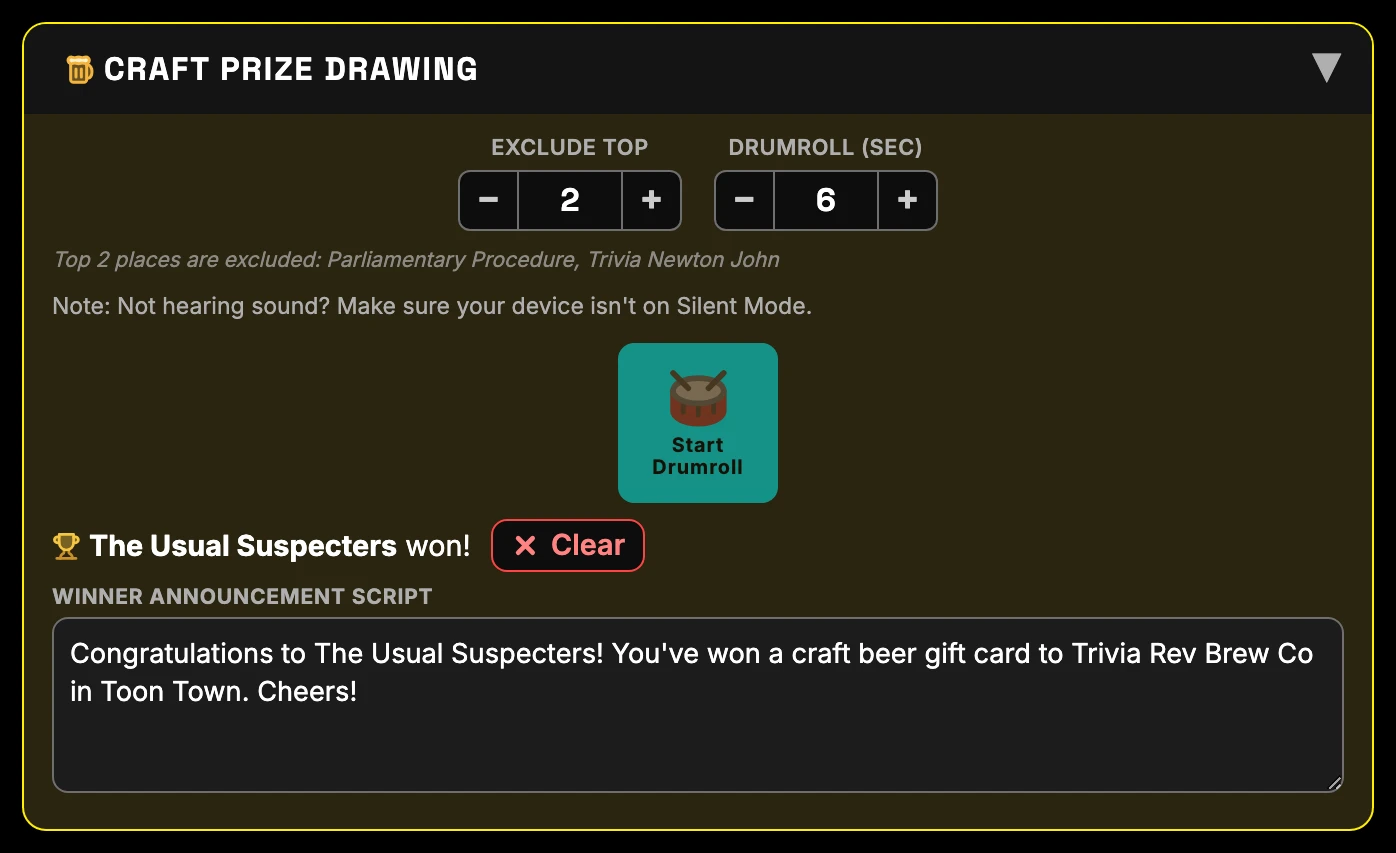
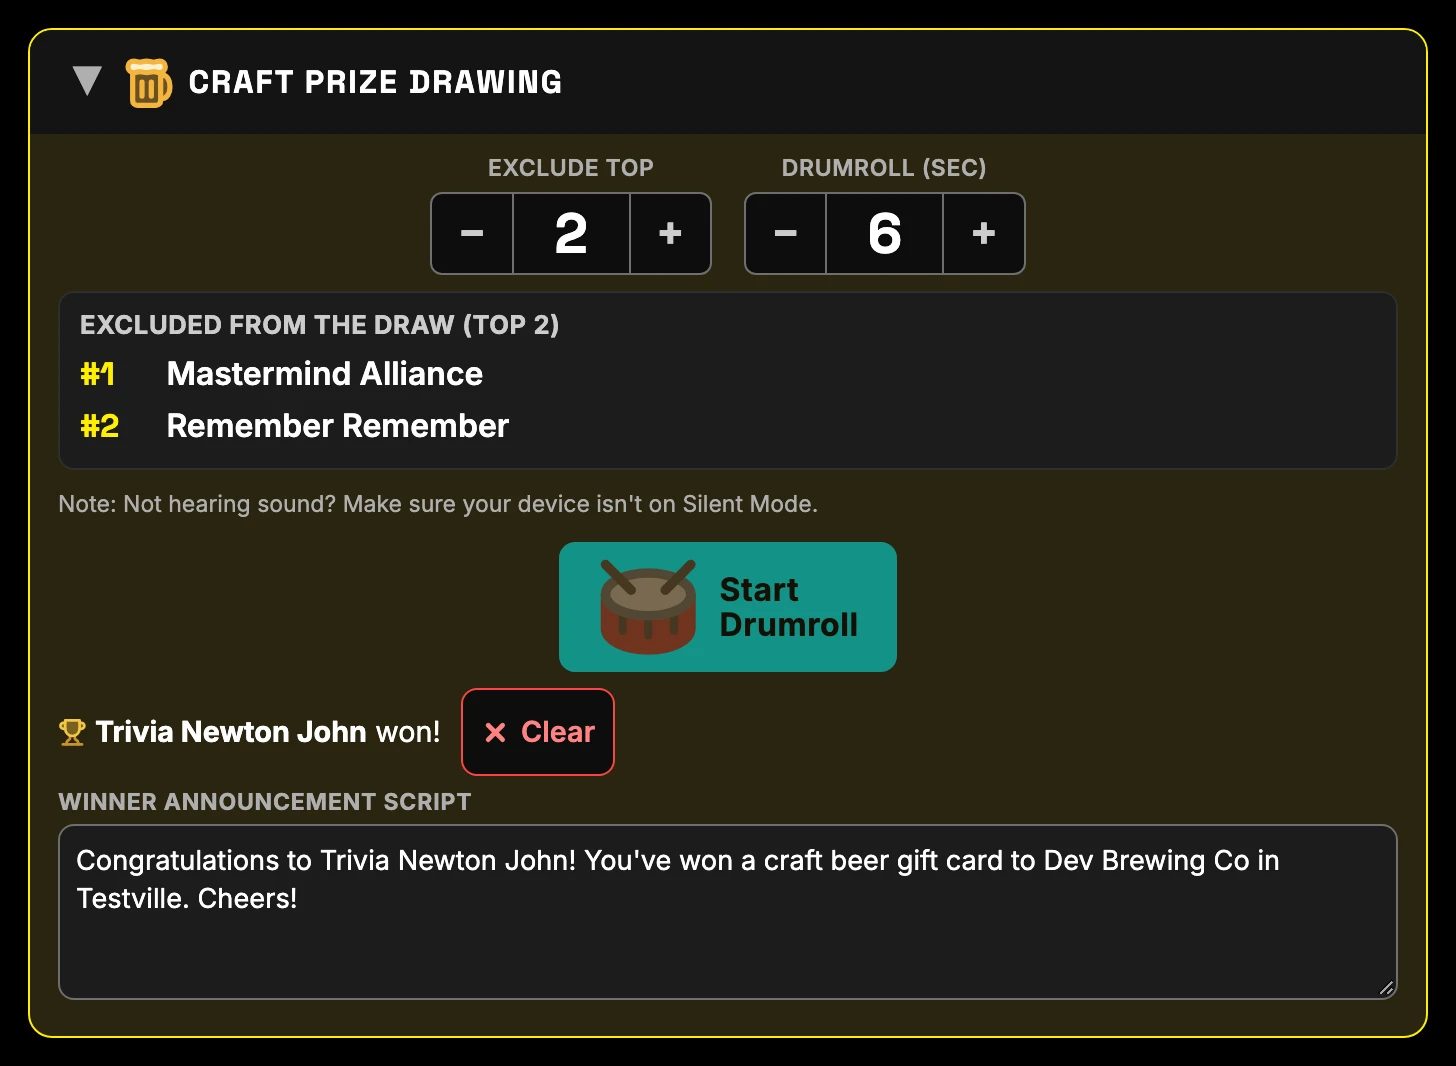
v22.77 Copy chip holds both labels in one spot so long team names stop wrapping on tap, FAQ v1.76 craft prize screenshots

Changed region(s): [[0.0, 0.0305, 0.9857, 0.9754]]

diff --git a/js/craft-prize.js b/js/craft-prize.js
@@ -563,7 +563,7 @@ function winnerCopyButtonsHtml() {
   if (!gameState.teams.length) return "";
   const nm = (ti) => esc(gameState.teams[ti].name || "Team " + (ti + 1));
   const btn = (ti, label) =>
-    `<button class="btn wc-btn" onclick="copyTeamName(this,${ti})" title="Copy team name" aria-label="Copy ${label}: ${nm(ti)}"><span class="wc-label${label[0] === "#" ? " wc-num" : ""}">${label.replace(" ", "<br>")}</span><span class="wc-name">${nm(ti)}</span><span class="wc-copy">Copy</span></button>`;
+    `<button class="btn wc-btn" onclick="copyTeamName(this,${ti})" title="Copy team name" aria-label="Copy ${label}: ${nm(ti)}"><span class="wc-label${label[0] === "#" ? " wc-num" : ""}">${label.replace(" ", "<br>")}</span><span class="wc-name">${nm(ti)}</span><span class="wc-copy"><span class="wc-copy-idle">Copy</span><span class="wc-copy-done" aria-hidden="true">${ICON_DONE} Copied</span></span></button>`;
   const rows = ranked()
     .slice(0, gameState.meta.excludeTopN || 2)
     .map((r, i) => btn(r.index, "#" + (i + 1)));
@@ -571,22 +571,15 @@ function winnerCopyButtonsHtml() {
   if (w && gameState.teams[w.ti]) rows.push(btn(w.ti, "Craft Prize"));
   return `<div class="winner-copy">${rows.join("")}</div>`;
 }
-// Copy confirmation for the winner buttons: only the small "Copy" chip changes, in place. The
-// chip's width is pinned so the longer "Copied" can't reflow the team name beside it, and the
-// button's badge/name never swap, fade or move — nothing to flicker.
+// Copy confirmation for the winner buttons: only the small Copy chip changes, in place. Both
+// labels ("Copy" and "✓ Copied") are always in the chip, stacked in one grid cell, so the chip is
+// permanently as wide as the wider one and toggling a class can't reflow the team name beside it.
+// No text swap, no fade, no measured widths — nothing to flicker or wrap.
 function flashChip(chip) {
   clearTimeout(+chip.dataset.flashTimer || 0);
-  if (chip.dataset.flashRestore == null) {
-    chip.dataset.flashRestore = chip.innerHTML;
-    chip.style.minWidth = chip.offsetWidth + "px";
-  }
-  chip.innerHTML = ICON_DONE + " Copied";
   chip.classList.add("wc-copied");
   chip.dataset.flashTimer = setTimeout(() => {
-    chip.innerHTML = chip.dataset.flashRestore;
     chip.classList.remove("wc-copied");
-    chip.style.minWidth = "";
-    delete chip.dataset.flashRestore;
     delete chip.dataset.flashTimer;
   }, 1500);
 }

diff --git a/index.html b/index.html
@@ -109,7 +109,7 @@
     </div>
     </div>
     <div class="settings-panel-foot">
-    <div class="settings-meta"><span class="settings-version" id="versionLabel"></span><details class="settings-about"><summary>What's new</summary><div class="about-ver"><b>v22.76</b><ul><li>Craft Prize: the #1/#2/#3 numbers in the Excluded list are easier to read in light mode.</li></ul></div><div class="about-ver"><b>v22.75</b><ul><li>Game Confirmation: tapping Copy on a winner button now only turns its Copy chip green, with no flashing or shifting.</li></ul></div><div class="about-ver"><b>v22.74</b><ul><li>Game Confirmation: step 1 is now "Save a Scoresheet backup (Optional)" with a "Save backup" button.</li></ul></div></details><span class="settings-disclaimer"><svg class="icon-ui" viewBox="0 0 24 24" aria-hidden="true" focusable="false"><path d="m21.73 18-8-14a2 2 0 0 0-3.48 0l-8 14A2 2 0 0 0 4 21h16a2 2 0 0 0 1.73-3"/><path d="M12 9v4"/><path d="M12 17h.01"/></svg> Built with Anthropic's Claude AI — double-check scores &amp; banter yourself.</span></div>
+    <div class="settings-meta"><span class="settings-version" id="versionLabel"></span><details class="settings-about"><summary>What's new</summary><div class="about-ver"><b>v22.77</b><ul><li>Game Confirmation: tapping Copy on a winner button no longer pushes long team names onto a second line.</li></ul></div><div class="about-ver"><b>v22.76</b><ul><li>Craft Prize: the #1/#2/#3 numbers in the Excluded list are easier to read in light mode.</li></ul></div><div class="about-ver"><b>v22.75</b><ul><li>Game Confirmation: tapping Copy on a winner button now only turns its Copy chip green, with no flashing or shifting.</li></ul></div></details><span class="settings-disclaimer"><svg class="icon-ui" viewBox="0 0 24 24" aria-hidden="true" focusable="false"><path d="m21.73 18-8-14a2 2 0 0 0-3.48 0l-8 14A2 2 0 0 0 4 21h16a2 2 0 0 0 1.73-3"/><path d="M12 9v4"/><path d="M12 17h.01"/></svg> Built with Anthropic's Claude AI — double-check scores &amp; banter yourself.</span></div>
     </div>
   </div>
 </div>

diff --git a/css/styles.css b/css/styles.css
@@ -2290,7 +2290,10 @@ input.at-limit,textarea.at-limit{border-color:var(--accent-orange);box-shadow:0 
 .wc-label{font-family:var(--font-display);font-weight:800;font-size:.75rem;text-transform:uppercase;letter-spacing:.3px;color:var(--accent-gold);min-width:4.6rem}
 .wc-name{flex:1;font-weight:600;word-break:break-word}
 .wc-copy{flex:none;font-weight:700;font-size:.8rem;text-transform:uppercase;letter-spacing:.3px;padding:2px 10px;border:1px solid var(--border);border-radius:var(--radius)}
-.wc-copy{text-align:center;white-space:nowrap}
+.wc-copy{display:inline-grid;text-align:center;white-space:nowrap}
+.wc-copy>span{grid-area:1/1}
+.wc-copy-done,.wc-copied .wc-copy-idle{visibility:hidden}
+.wc-copied .wc-copy-done{visibility:visible}
 .wc-copy.wc-copied{background:var(--correct-badge-bg);color:var(--correct-badge-fg);border-color:var(--correct-badge-bg)}
 .export-bar{display:flex;gap:16px;flex-wrap:wrap;justify-content:center;padding:10px 0}
 /* XLSX / PDF export as square, icon-forward buttons — a big glyph stacked over a small label is

diff --git a/js/app.js b/js/app.js
@@ -69,8 +69,8 @@ const FIELD_MAX = {
   timezone: 64,
   locale: 35,
 };
-const APP_VERSION = "v22.76"; // #Version Number — bump this manually when you release a new build
-const APP_VERSION_DATE = "Nov 22, 2026 5:18 AM"; // #Version Date — bump alongside APP_VERSION so folks can spot a stale build
+const APP_VERSION = "v22.77"; // #Version Number — bump this manually when you release a new build
+const APP_VERSION_DATE = "Nov 22, 2026 5:26 AM"; // #Version Date — bump alongside APP_VERSION so folks can spot a stale build
 // version.json (repo root) mirrors these two — see checkForUpdate() below for why, and bump it
 // in the same commit as these two or the update-available check starts lying: it'd either miss
 // a real new release (version.json still saying the old version) or nag a host running the

diff --git a/faq/js/faq.js b/faq/js/faq.js
@@ -4,7 +4,7 @@
 // #versionLabel element. Here the same string feeds two spots — the page footer and the
 // Settings panel's settings-meta row — so bumping a release only means editing these two
 // constants instead of hunting down every place the version text is written out by hand.
-const FAQ_VERSION = "v1.75";
+const FAQ_VERSION = "v1.76";
 const FAQ_VERSION_DATE = "22 Nov 2026";
 
 // Same Lucide sun/moon geometry as the main app's THEME_ICON_SUN/MOON (js/app.js), tagged

diff --git a/faq/index.html b/faq/index.html
@@ -1301,7 +1301,7 @@
               <div class="faq-shot">
                 <img
             loading="lazy"
-                  width="1396" height="853" decoding="async"
+                  width="1456" height="1066" decoding="async"
             src="screenshots/craft-prize-winner.webp"
                   data-shot-base="craft-prize-winner"
                   alt="The Craft Prize winner banner after the drumroll finishes, with the Clear button"

diff --git a/faq/screenshots/README.md b/faq/screenshots/README.md
@@ -50,7 +50,7 @@ comparison it exists to make.
 | `craft-prize-choose.webp` | The Craft Prize Drawing section before it's opened — the single square **Choose / Craft Prize / Winner** button with the beer icon (v19.65). Dark + light. | Craft Prize Drawing |
 | `craft-prize.webp` | The Craft Prize Drawing section open pre-draw, showing the Exclude Top / Drumroll-seconds steppers and the square **Start Drumroll** button (v19.60). | Craft Prize Drawing |
 | `craft-prize-drumroll.webp` | The Craft Prize drumroll actively playing, right after clicking Start Drumroll — the spinning name and countdown bar. | Craft Prize Drawing |
-| `craft-prize-winner.webp` | The finished draw — winning team announced, with the **Clear** button next to the result and the Winner Announcement Script below. | Craft Prize Drawing |
+| `craft-prize-winner.webp` | The finished draw — the "Excluded from the draw" top-teams box, the winning team announced with the **Clear** button next to the result, and the Winner Announcement Script below (v22.77). Dark + light. | Craft Prize Drawing |
 | `export-bar.webp` | The Game Confirmation section as one numbered list — Save a Scoresheet backup (Optional), Submit the winners' names and photos (📷 form button with the Copy buttons for the top teams and craft prize winner under it), Save the Scoresheet (Download PDF), Submit your Game Confirmation (🎭 form button), then Clear Session. Each step button is a wide rectangle with a gold outline and the picto on the left (v22.74). Dark + light. | Exporting |
 | `pdf-export.webp` | The downloaded PDF scoresheet — same header plus full standings. | Exporting |
 | `jd-upload-form.webp` | The Game Confirmation page, opened in its own browser tab. | Exporting |

diff --git a/CHANGELOG.md b/CHANGELOG.md
@@ -14,6 +14,11 @@ Theme Night is a major change, so its first release (commit subject "v19.78") is
 v20.0 here and in the app, and the follow-ups after it are v20.1 through v20.6 (commit subjects
 v19.79 through v19.84; git history isn't rewritten).
 
+## v22.77 - 2026-11-22
+
+- **Copy on a winner button no longer wraps long team names.** The Copy chip now holds both "Copy" and "✓ Copied" stacked in one spot, so it is always as wide as the wider label and tapping it changes only the colour and which label shows. Previously the longer "Copied" widened the chip and pushed the name onto a second line.
+- FAQ v1.76: regenerated the Craft Prize winner screenshots (dark + light) from the real app, now showing the "Excluded from the draw" box and the light-mode rank colour.
+
 ## v22.76 - 2026-11-22
 
 - **Craft Prize "Excluded" list numbers are readable in light mode.** The #1/#2/#3 ranks now use the darker gold already used for the Game Confirmation labels instead of the pale gold (1.8:1 on white). Dark mode is unchanged.

diff --git a/faq/CHANGELOG.md b/faq/CHANGELOG.md
@@ -2,6 +2,12 @@
 
 All notable changes to the Scorekeeper FAQ site are documented here.
 
+## [1.76] - 22 Nov 2026
+
+### Changed
+
+- **Craft Prize Drawing:** the `craft-prize-winner` screenshots (dark + light) are regenerated for app v22.77, now showing the "Excluded from the draw" box and the darker light-mode rank numbers. The image size attributes are updated to match.
+
 ## [1.75] - 22 Nov 2026
 
 ### Changed
